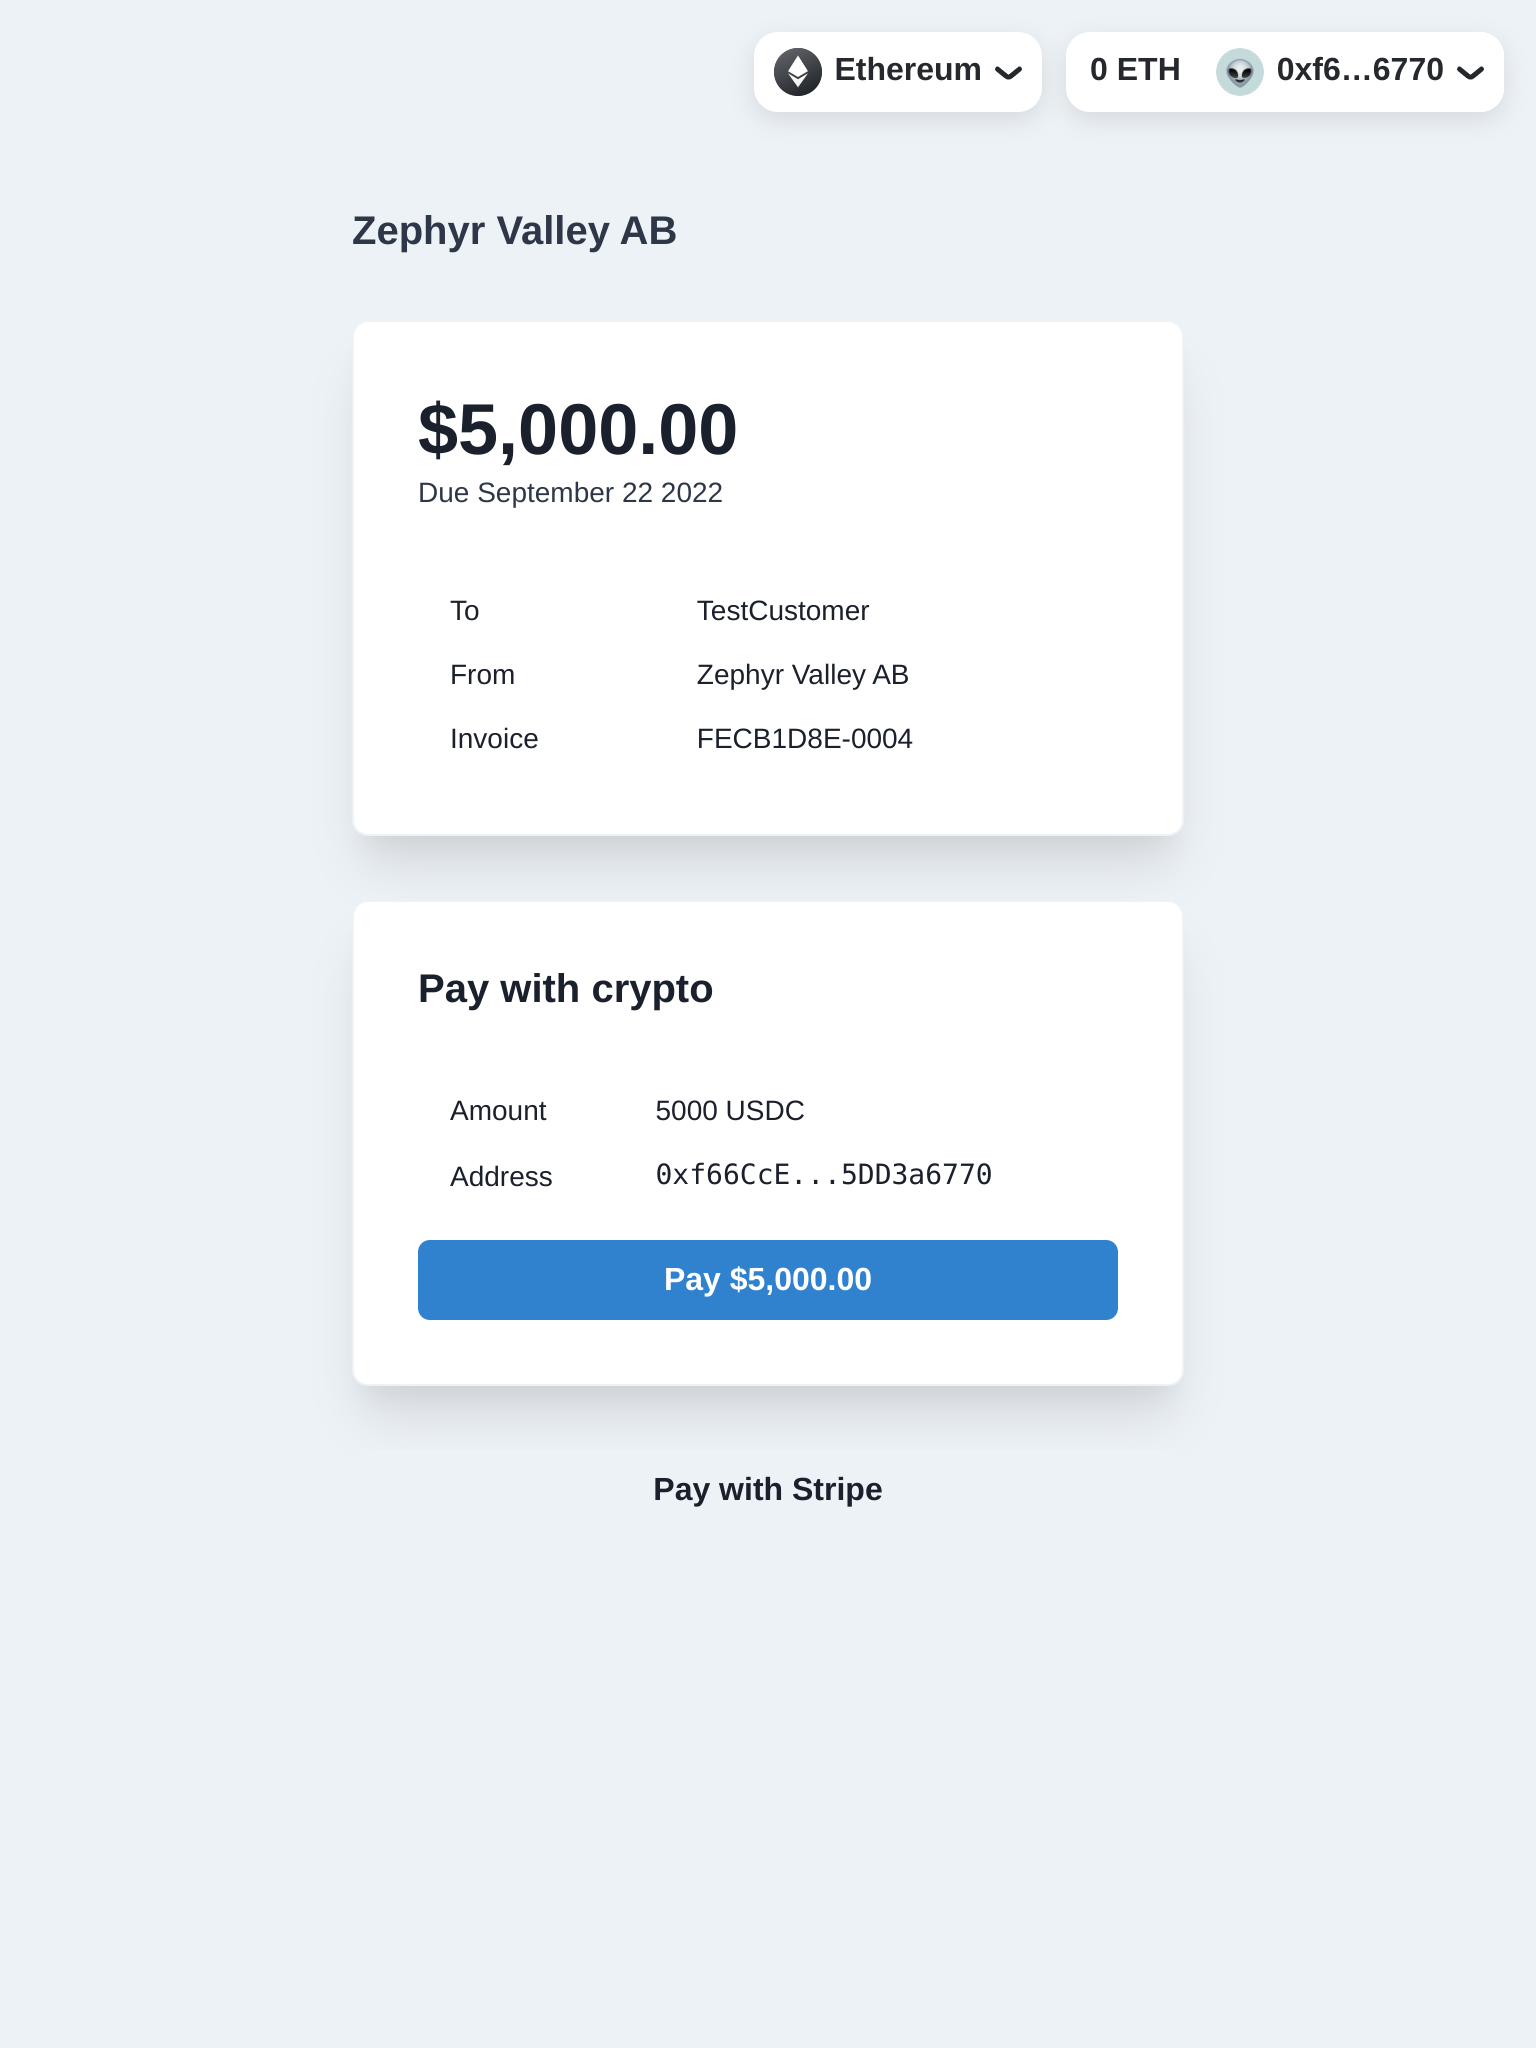
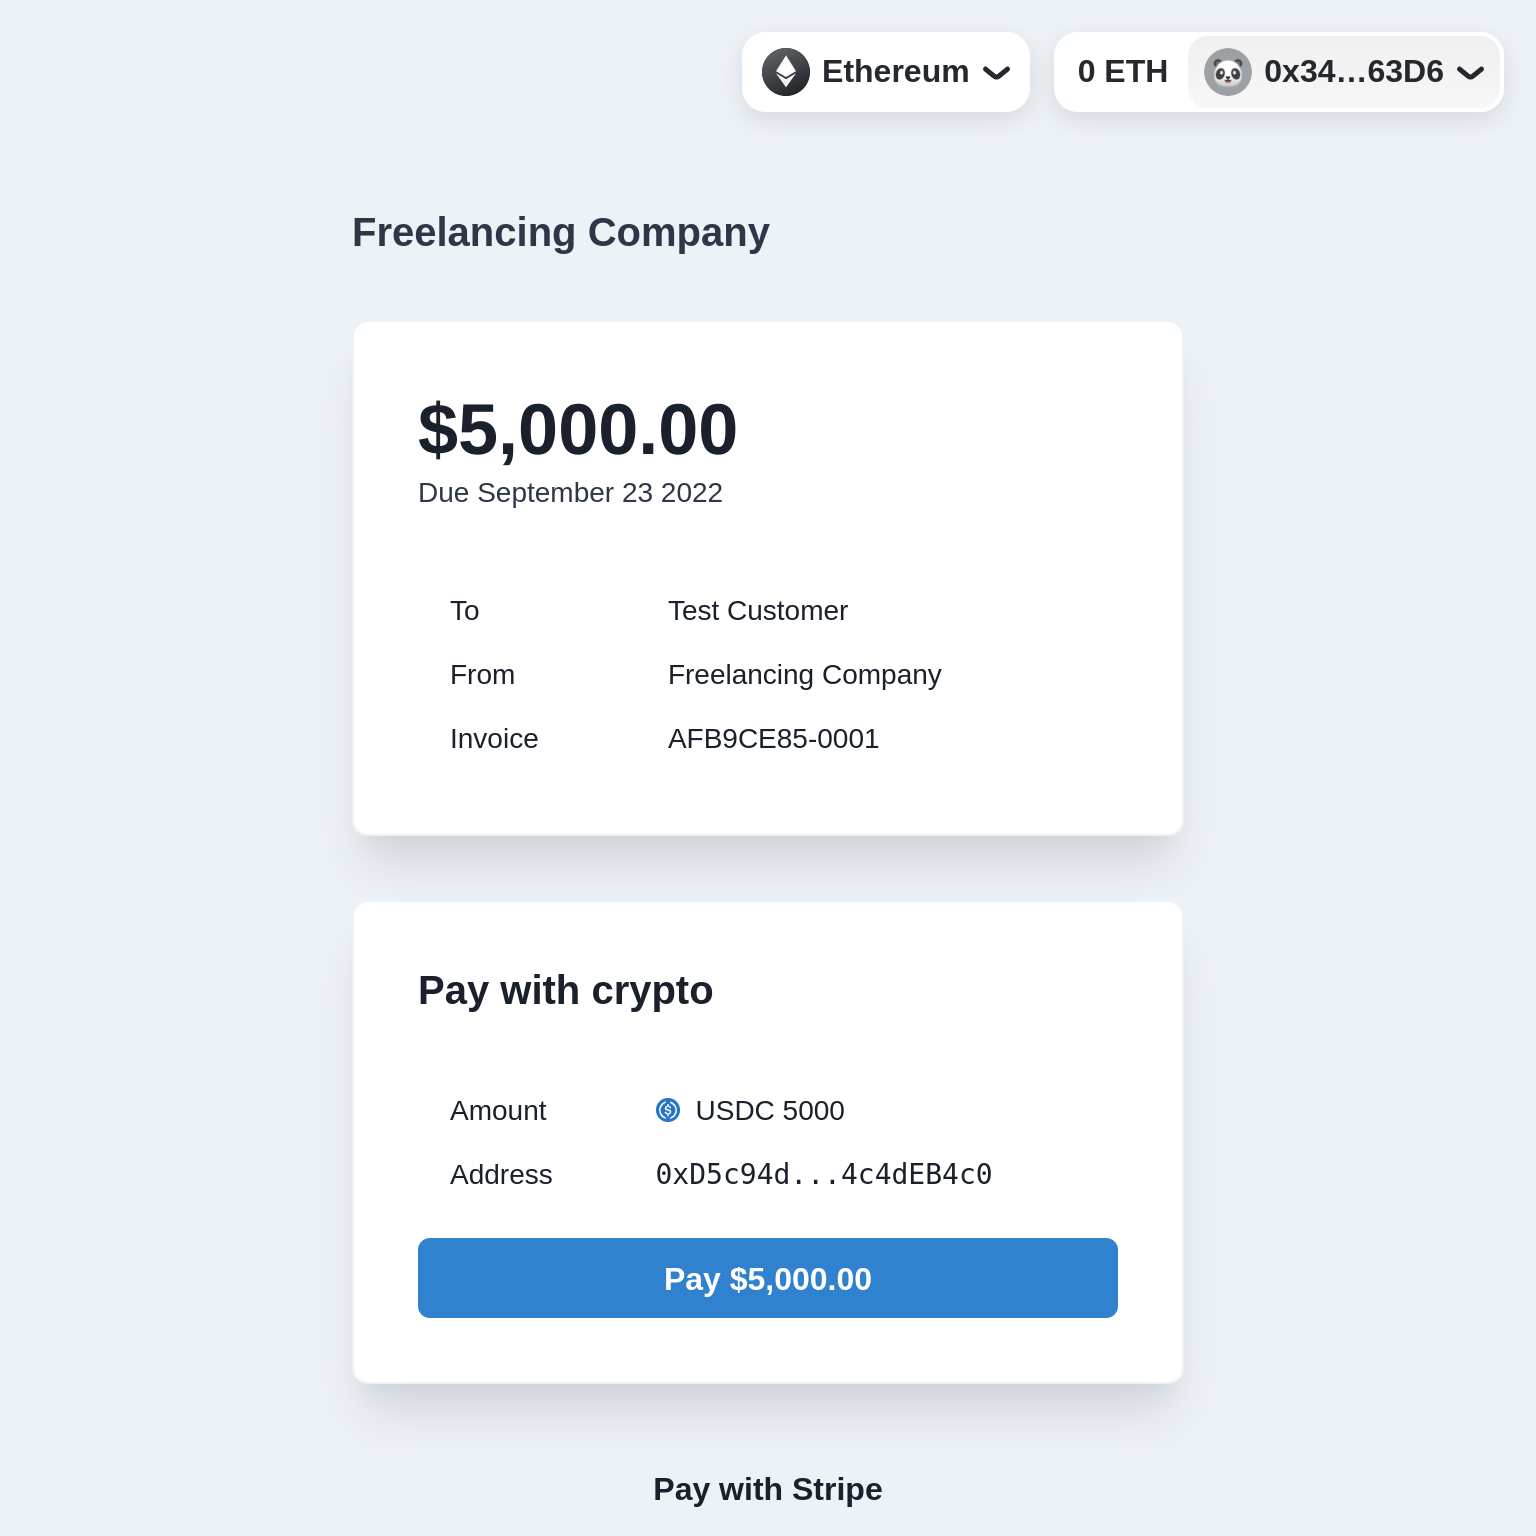
Minor fixes

diff --git a/pages/index.tsx b/pages/index.tsx
@@ -43,7 +43,7 @@ const Home: NextPage<{ token: string }> = ({ token, ...props }) => {
           mb={6}
           fontSize="5xl"
           fontWeight="bold"
-          lineHeight="none"
+          lineHeight={"none"}
           color="gray.900"
         >
           Receive payments for your
@@ -57,16 +57,16 @@ const Home: NextPage<{ token: string }> = ({ token, ...props }) => {
           </Text>{" "}
           <Text display={"inline-flex"}>
             with{" "}
-            <HStack pl={3} display="inline-flex">
+            <HStack pl={3} display="inline-flex" as="span">
               <USDC size={44} />
-              <Text>USDC.</Text>
+              <Text as="span">USDC.</Text>
             </HStack>
           </Text>
         </chakra.h1>
 
         <Text mb={4} fontSize="lg">
-          Lizard Pay is built on top of Stripe to enable crypto payments on your
-          invoices.
+          Built on top of Stripe to enable crypto payments to your invoices. Map
+          your wallet transactions to your Stripe invoices.
         </Text>
 
         <Stack

diff --git a/features/invoice/components/PayInvoice.tsx b/features/invoice/components/PayInvoice.tsx
@@ -10,6 +10,7 @@ import {
   Tr,
   Td,
   Textarea,
+  HStack,
 } from "@chakra-ui/react";
 
 import { formatMoney } from "utils/formatMoney";
@@ -18,6 +19,7 @@ import Card from "components/Card";
 import { truncate } from "utils/truncate";
 import { useAccount, useNetwork } from "wagmi";
 import { ConnectButton } from "@rainbow-me/rainbowkit";
+import USDC from "components/USDC";
 
 function PayButton({ amount = 0, disabled = false, isLoading = false }) {
   const { address } = useAccount();
@@ -69,7 +71,13 @@ export default function PayInvoice({ address = "", amount = 0 }) {
           <Tr>
             <Td>Amount</Td>
             <Td>
-              {amount} {usdc.data?.symbol}
+              <HStack>
+                <USDC size={12} />
+                <Text>
+                  {usdc.data?.symbol}
+                  {amount}
+                </Text>
+              </HStack>
             </Td>
           </Tr>
           <Tr>

diff --git a/README.md b/README.md
@@ -1,3 +1,8 @@
 # Stripe Crypto
 
-- Pay a Stripe Invoice with crypto
+Receive payments for your Stripe invoices in USDC.
+
+1. Connect Stripe
+2. Set your wallet address
+3. Copy the payment link from the list of invoices
+4. Send to your client.
